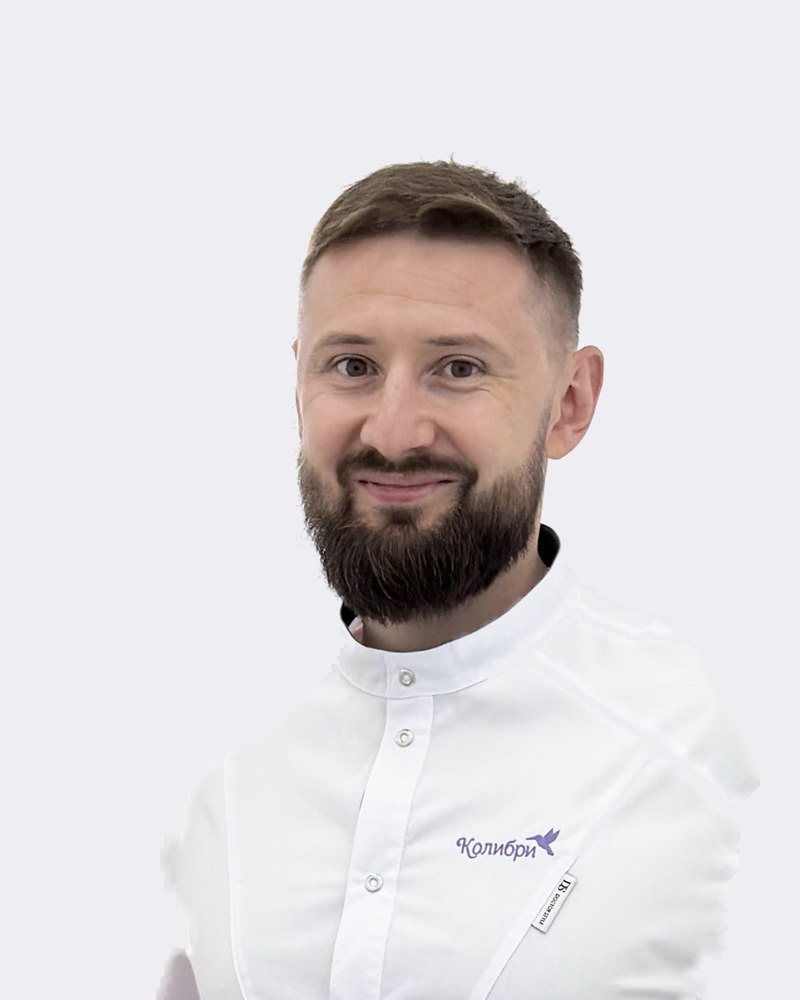
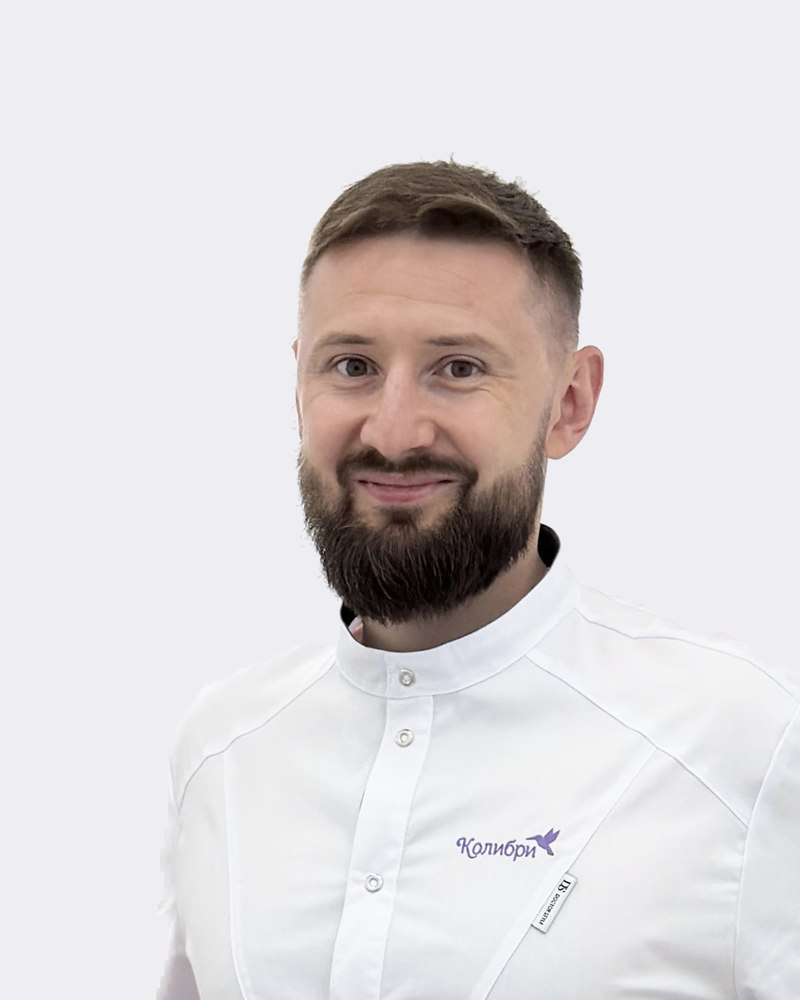
Воропаев: плечи возвращены (контур туловища), без остатков стены

Changed region(s): [[0.8438, 0.93, 0.9688, 1.0], [0.9375, 0.775, 1.0, 0.837], [0.2188, 0.899, 0.25, 0.961]]

diff --git a/app-concept.html b/app-concept.html
@@ -6,9 +6,9 @@
   <title>Приложение «Колибри» — концепция</title>
   <meta name="description" content="Концепция мобильного приложения детской клиники «Колибри»: функционал по референсу, экраны в фирменном стиле, интеграция с МИС МЕДМИС.">
   <link rel="icon" href="img/logo.png" type="image/png">
-  <link rel="stylesheet" href="css/fonts.css?v=202610030219">
+  <link rel="stylesheet" href="css/fonts.css?v=202610030226">
 
-  <link rel="stylesheet" href="css/style.css?v=202610030219">
+  <link rel="stylesheet" href="css/style.css?v=202610030226">
   <style>
     /* ---------- страница ---------- */
     .concept-hero { background: linear-gradient(120deg, var(--p600), var(--p800)); color: #fff; border-radius: 32px; padding: 44px 48px; margin-top: 24px; display: grid; grid-template-columns: 1.2fr .8fr; gap: 32px; align-items: center; position: relative; overflow: hidden; }
@@ -777,8 +777,8 @@
   <symbol id="a-alert" viewBox="0 0 24 24" fill="none" stroke="currentColor" stroke-width="2" stroke-linecap="round" stroke-linejoin="round"><circle cx="12" cy="12" r="9"/><path d="M12 7v6M12 16h.01"/></symbol>
 </svg>
 
-<script src="js/data.js?v=202610030219"></script>
-<script src="js/photos.js?v=202610030219"></script>
-<script src="js/main.js?v=202610030219"></script>
+<script src="js/data.js?v=202610030226"></script>
+<script src="js/photos.js?v=202610030226"></script>
+<script src="js/main.js?v=202610030226"></script>
 </body>
 </html>

diff --git a/index.html b/index.html
@@ -6,9 +6,9 @@
   <title>Детская клиника «Колибри» — Симферополь, с. Мирное | Забота с первых дней</title>
   <meta name="description" content="Детская клиника «Колибри» в с. Мирное (Симферопольский район): педиатр-неонатолог, сопровождение недоношенных детей, УЗИ экспертного класса от 0 до 99 лет, вакцинация с рождения. Запись: +7 (978) 130-00-30">
   <link rel="icon" href="img/logo.png" type="image/png">
-  <link rel="stylesheet" href="css/fonts.css?v=202610030219">
+  <link rel="stylesheet" href="css/fonts.css?v=202610030226">
 
-  <link rel="stylesheet" href="css/style.css?v=202610030219">
+  <link rel="stylesheet" href="css/style.css?v=202610030226">
 </head>
 <body>
 
@@ -236,8 +236,8 @@
   </div>
 </section>
 
-<script src="js/data.js?v=202610030219"></script>
-<script src="js/photos.js?v=202610030219"></script>
-<script src="js/main.js?v=202610030219"></script>
+<script src="js/data.js?v=202610030226"></script>
+<script src="js/photos.js?v=202610030226"></script>
+<script src="js/main.js?v=202610030226"></script>
 </body>
 </html>

diff --git a/ceny.html b/ceny.html
@@ -6,9 +6,9 @@
   <title>Программы наблюдения и цены — Детская клиника «Колибри», с. Мирное</title>
   <meta name="description" content="Цены детской клиники «Колибри»: программы наблюдения детей от рождения до 6 и до 12 месяцев, осмотры педиатра, неонатолога, офтальмолога с сопровождением в мессенджере, пакет для недоношенных детей.">
   <link rel="icon" href="img/logo.png" type="image/png">
-  <link rel="stylesheet" href="css/fonts.css?v=202610030219">
+  <link rel="stylesheet" href="css/fonts.css?v=202610030226">
 
-  <link rel="stylesheet" href="css/style.css?v=202610030219">
+  <link rel="stylesheet" href="css/style.css?v=202610030226">
 </head>
 <body>
 
@@ -62,8 +62,8 @@
   </div>
 </section>
 
-<script src="js/data.js?v=202610030219"></script>
-<script src="js/photos.js?v=202610030219"></script>
-<script src="js/main.js?v=202610030219"></script>
+<script src="js/data.js?v=202610030226"></script>
+<script src="js/photos.js?v=202610030226"></script>
+<script src="js/main.js?v=202610030226"></script>
 </body>
 </html>

diff --git a/uslugi.html b/uslugi.html
@@ -6,9 +6,9 @@
   <title>Услуги — Детская клиника «Колибри», с. Мирное</title>
   <meta name="description" content="Услуги детской клиники «Колибри»: педиатр-неонатолог, сопровождение недоношенных детей, ортопед, хирург и уролог, невролог, офтальмолог, ЛОР, логопед, психолог, медсестра, консультант по грудному вскармливанию.">
   <link rel="icon" href="img/logo.png" type="image/png">
-  <link rel="stylesheet" href="css/fonts.css?v=202610030219">
+  <link rel="stylesheet" href="css/fonts.css?v=202610030226">
 
-  <link rel="stylesheet" href="css/style.css?v=202610030219">
+  <link rel="stylesheet" href="css/style.css?v=202610030226">
 </head>
 <body>
 
@@ -56,8 +56,8 @@
   </div>
 </section>
 
-<script src="js/data.js?v=202610030219"></script>
-<script src="js/photos.js?v=202610030219"></script>
-<script src="js/main.js?v=202610030219"></script>
+<script src="js/data.js?v=202610030226"></script>
+<script src="js/photos.js?v=202610030226"></script>
+<script src="js/main.js?v=202610030226"></script>
 </body>
 </html>

diff --git a/uzi.html b/uzi.html
@@ -6,9 +6,9 @@
   <title>УЗИ экспертного класса от 0 до 99 лет — Детская клиника «Колибри», с. Мирное</title>
   <meta name="description" content="Все виды УЗИ на аппарате экспертного класса: ЭхоКГ новорождённым весом до 3 кг, скрининг в 1 месяц, эластография, сосуды, лёгкие, кожа. Детям и взрослым. Запись: +7 (978) 130-00-30">
   <link rel="icon" href="img/logo.png" type="image/png">
-  <link rel="stylesheet" href="css/fonts.css?v=202610030219">
+  <link rel="stylesheet" href="css/fonts.css?v=202610030226">
 
-  <link rel="stylesheet" href="css/style.css?v=202610030219">
+  <link rel="stylesheet" href="css/style.css?v=202610030226">
 </head>
 <body>
 
@@ -74,8 +74,8 @@
   </div>
 </section>
 
-<script src="js/data.js?v=202610030219"></script>
-<script src="js/photos.js?v=202610030219"></script>
-<script src="js/main.js?v=202610030219"></script>
+<script src="js/data.js?v=202610030226"></script>
+<script src="js/photos.js?v=202610030226"></script>
+<script src="js/main.js?v=202610030226"></script>
 </body>
 </html>

diff --git a/rostomer.html b/rostomer.html
@@ -5,9 +5,9 @@
   <meta name="viewport" content="width=device-width, initial-scale=1">
   <title>Ростомер «Колибри» — варианты</title>
   <link rel="icon" href="img/logo.png" type="image/png">
-  <link rel="stylesheet" href="css/fonts.css?v=202610030219">
+  <link rel="stylesheet" href="css/fonts.css?v=202610030226">
 
-  <link rel="stylesheet" href="css/style.css?v=202610030219">
+  <link rel="stylesheet" href="css/style.css?v=202610030226">
   <style>
     .intro { background: #fff; border-radius: var(--radius); padding: 24px 28px; box-shadow: var(--shadow); margin-bottom: 28px; }
     .intro p { margin: 0 0 8px; font-size: 15px; }
@@ -89,10 +89,10 @@
   </div>
 </section>
 
-<script src="js/data.js?v=202610030219"></script>
-<script src="js/photos.js?v=202610030219"></script>
-<script src="js/main.js?v=202610030219"></script>
-<script src="js/rostomer.js?v=202610030219"></script>
+<script src="js/data.js?v=202610030226"></script>
+<script src="js/photos.js?v=202610030226"></script>
+<script src="js/main.js?v=202610030226"></script>
+<script src="js/rostomer.js?v=202610030226"></script>
 <script>
 (function () {
   window.ROSTOMER.variants.forEach(function (v, i) {

diff --git a/o-klinike.html b/o-klinike.html
@@ -6,9 +6,9 @@
   <title>О клинике — Детская клиника «Колибри», с. Мирное</title>
   <meta name="description" content="Детская клиника «Колибри» в с. Мирное Симферопольского района: врачи высшей категории, УЗИ экспертного класса, сопровождение недоношенных детей, вакцинация с рождения.">
   <link rel="icon" href="img/logo.png" type="image/png">
-  <link rel="stylesheet" href="css/fonts.css?v=202610030219">
+  <link rel="stylesheet" href="css/fonts.css?v=202610030226">
 
-  <link rel="stylesheet" href="css/style.css?v=202610030219">
+  <link rel="stylesheet" href="css/style.css?v=202610030226">
 </head>
 <body>
 
@@ -90,8 +90,8 @@
   </div>
 </section>
 
-<script src="js/data.js?v=202610030219"></script>
-<script src="js/photos.js?v=202610030219"></script>
-<script src="js/main.js?v=202610030219"></script>
+<script src="js/data.js?v=202610030226"></script>
+<script src="js/photos.js?v=202610030226"></script>
+<script src="js/main.js?v=202610030226"></script>
 </body>
 </html>

diff --git a/kontakty.html b/kontakty.html
@@ -6,9 +6,9 @@
   <title>Контакты — Детская клиника «Колибри», с. Мирное, ул. Крымской Весны, 9к1</title>
   <meta name="description" content="Детская клиника «Колибри»: Республика Крым, Симферопольский р-н, с. Мирное, ул. Крымской Весны, 9к1. Телефон +7 (978) 130-00-30. Схема проезда и режим работы.">
   <link rel="icon" href="img/logo.png" type="image/png">
-  <link rel="stylesheet" href="css/fonts.css?v=202610030219">
+  <link rel="stylesheet" href="css/fonts.css?v=202610030226">
 
-  <link rel="stylesheet" href="css/style.css?v=202610030219">
+  <link rel="stylesheet" href="css/style.css?v=202610030226">
 </head>
 <body>
 
@@ -54,8 +54,8 @@
   </div>
 </section>
 
-<script src="js/data.js?v=202610030219"></script>
-<script src="js/photos.js?v=202610030219"></script>
-<script src="js/main.js?v=202610030219"></script>
+<script src="js/data.js?v=202610030226"></script>
+<script src="js/photos.js?v=202610030226"></script>
+<script src="js/main.js?v=202610030226"></script>
 </body>
 </html>

diff --git a/vrachi.html b/vrachi.html
@@ -6,9 +6,9 @@
   <title>Врачи — Детская клиника «Колибри», с. Мирное</title>
   <meta name="description" content="Врачи детской клиники «Колибри»: педиатры-неонатологи высшей категории, ортопед, детский хирург и уролог, невролог, офтальмологи, ЛОР, врачи УЗИ. Запись: +7 (978) 130-00-30">
   <link rel="icon" href="img/logo.png" type="image/png">
-  <link rel="stylesheet" href="css/fonts.css?v=202610030219">
+  <link rel="stylesheet" href="css/fonts.css?v=202610030226">
 
-  <link rel="stylesheet" href="css/style.css?v=202610030219">
+  <link rel="stylesheet" href="css/style.css?v=202610030226">
 </head>
 <body>
 
@@ -47,8 +47,8 @@
   </div>
 </section>
 
-<script src="js/data.js?v=202610030219"></script>
-<script src="js/photos.js?v=202610030219"></script>
-<script src="js/main.js?v=202610030219"></script>
+<script src="js/data.js?v=202610030226"></script>
+<script src="js/photos.js?v=202610030226"></script>
+<script src="js/main.js?v=202610030226"></script>
 </body>
 </html>

diff --git a/poleznoe.html b/poleznoe.html
@@ -6,9 +6,9 @@
   <title>Полезное для родителей — Детская клиника «Колибри»</title>
   <meta name="description" content="Статьи врачей детской клиники «Колибри»: осмотры в первый месяц, УЗИ сердца новорождённому, прививки недоношенным, когда нужен невролог.">
   <link rel="icon" href="img/logo.png" type="image/png">
-  <link rel="stylesheet" href="css/fonts.css?v=202610030219">
+  <link rel="stylesheet" href="css/fonts.css?v=202610030226">
 
-  <link rel="stylesheet" href="css/style.css?v=202610030219">
+  <link rel="stylesheet" href="css/style.css?v=202610030226">
 </head>
 <body>
 
@@ -32,8 +32,8 @@
   </div>
 </section>
 
-<script src="js/data.js?v=202610030219"></script>
-<script src="js/photos.js?v=202610030219"></script>
-<script src="js/main.js?v=202610030219"></script>
+<script src="js/data.js?v=202610030226"></script>
+<script src="js/photos.js?v=202610030226"></script>
+<script src="js/main.js?v=202610030226"></script>
 </body>
 </html>

diff --git a/politika.html b/politika.html
@@ -6,8 +6,8 @@
   <title>Политика конфиденциальности — Детская клиника «Колибри»</title>
   <meta name="description" content="Политика обработки персональных данных пользователей сайта детской клиники «Колибри».">
   <link rel="icon" href="img/logo.png" type="image/png">
-  <link rel="stylesheet" href="css/fonts.css?v=202610030219">
-  <link rel="stylesheet" href="css/style.css?v=202610030219">
+  <link rel="stylesheet" href="css/fonts.css?v=202610030226">
+  <link rel="stylesheet" href="css/style.css?v=202610030226">
 </head>
 <body>
 
@@ -78,8 +78,8 @@
   </div>
 </section>
 
-<script src="js/data.js?v=202610030219"></script>
-<script src="js/photos.js?v=202610030219"></script>
-<script src="js/main.js?v=202610030219"></script>
+<script src="js/data.js?v=202610030226"></script>
+<script src="js/photos.js?v=202610030226"></script>
+<script src="js/main.js?v=202610030226"></script>
 </body>
 </html>

diff --git a/soglasie.html b/soglasie.html
@@ -7,8 +7,8 @@
   <meta name="description" content="Согласие на обработку персональных данных при отправке заявки на сайте детской клиники «Колибри».">
   <meta name="robots" content="noindex">
   <link rel="icon" href="img/logo.png" type="image/png">
-  <link rel="stylesheet" href="css/fonts.css?v=202610030219">
-  <link rel="stylesheet" href="css/style.css?v=202610030219">
+  <link rel="stylesheet" href="css/fonts.css?v=202610030226">
+  <link rel="stylesheet" href="css/style.css?v=202610030226">
 </head>
 <body>
 
@@ -57,8 +57,8 @@
   </div>
 </section>
 
-<script src="js/data.js?v=202610030219"></script>
-<script src="js/photos.js?v=202610030219"></script>
-<script src="js/main.js?v=202610030219"></script>
+<script src="js/data.js?v=202610030226"></script>
+<script src="js/photos.js?v=202610030226"></script>
+<script src="js/main.js?v=202610030226"></script>
 </body>
 </html>
